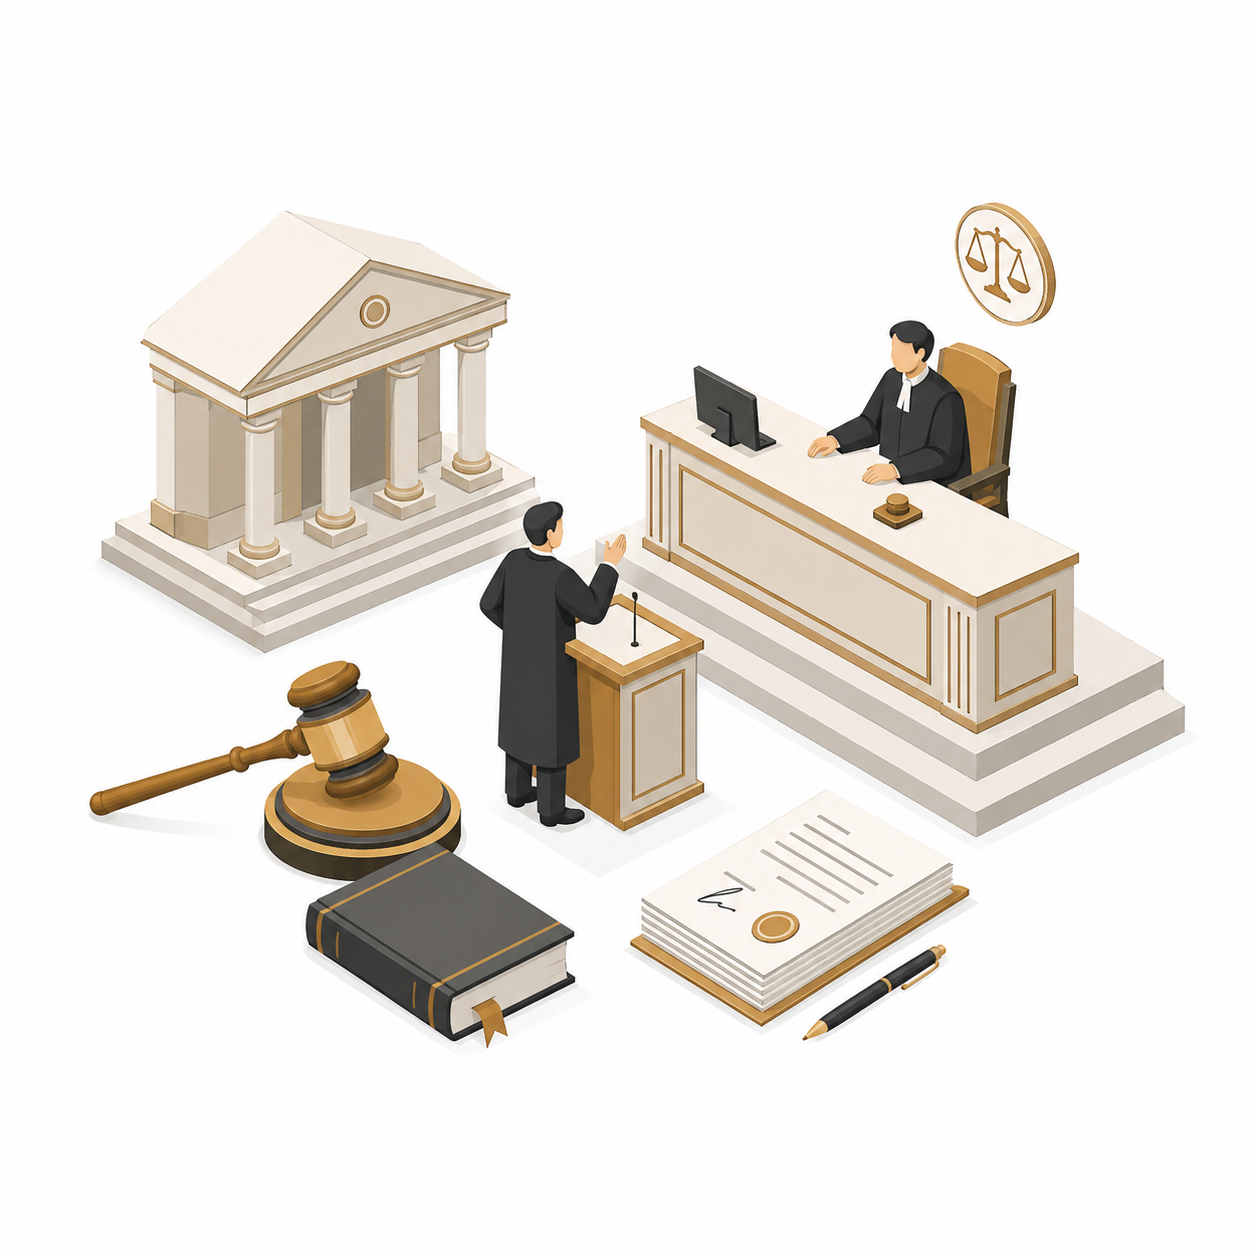
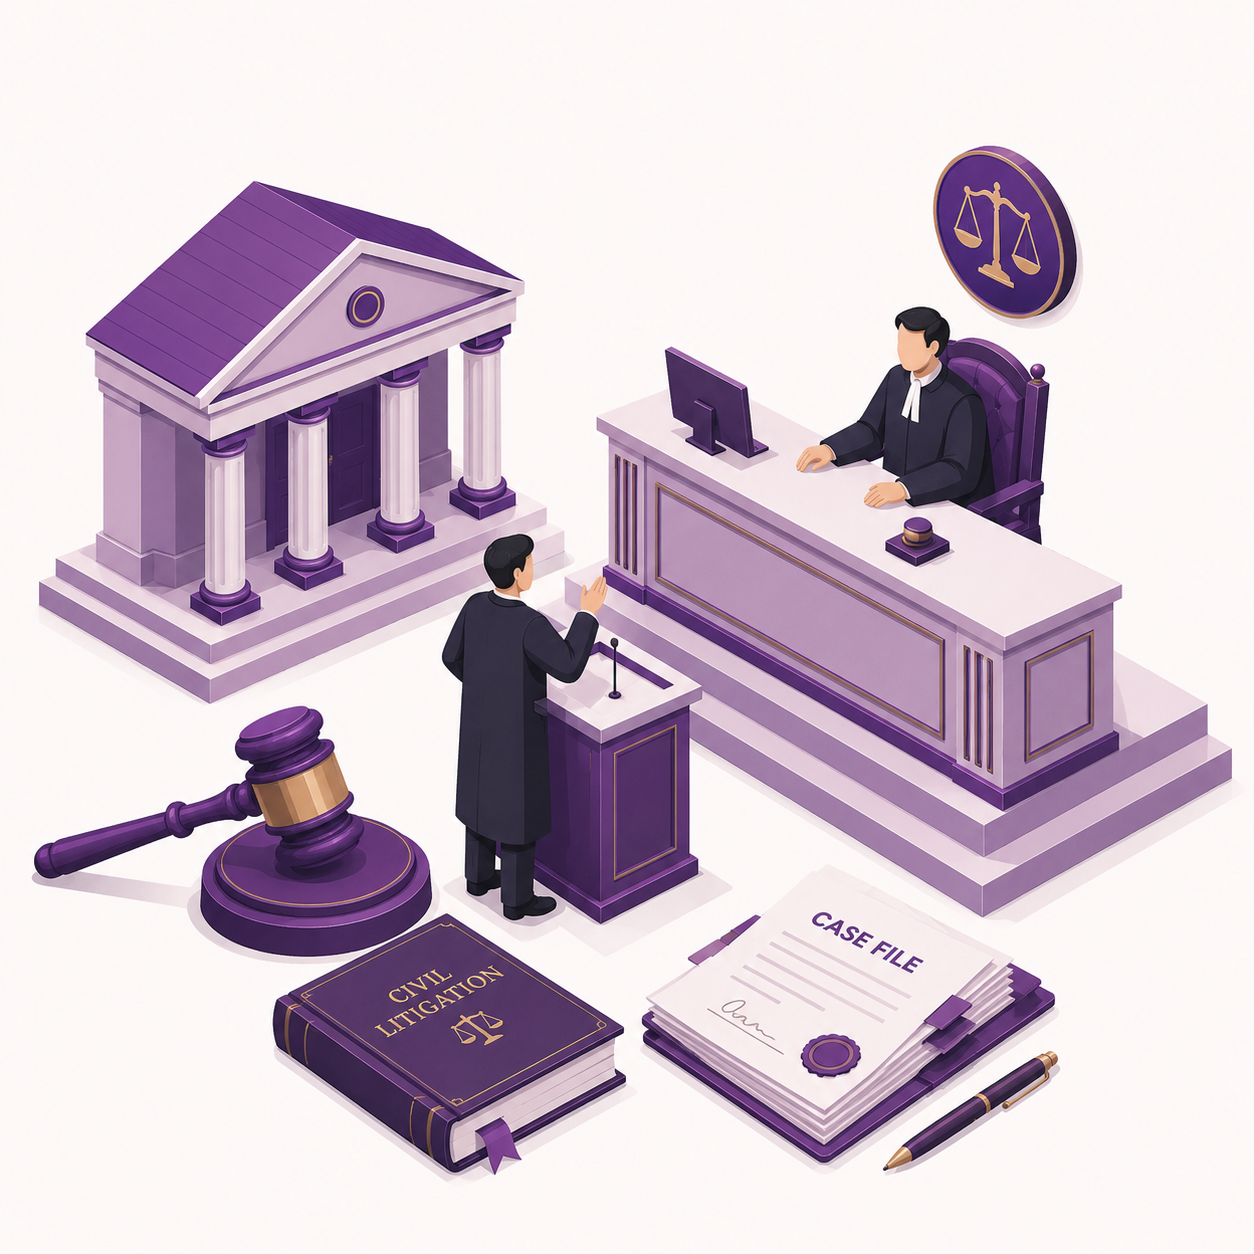
Add new brand-purple illustrations for 6 more Practice Areas (updating Civil Litigation/Arbitration, adding Banking Recovery, Legal Documentation, Corporate Law, Family Law, Criminal Defense)

diff --git a/src/app/practice-areas/page.tsx b/src/app/practice-areas/page.tsx
@@ -17,6 +17,11 @@ const ILLUSTRATIONS: Record<string, string> = {
   "civil-litigation": "/images/civil-litigation.png",
   "property-law": "/images/property-law.png",
   "arbitration-adr": "/images/arbitration-adr.png",
+  "legal-documentation": "/images/legal-documentation.png",
+  "banking-recovery-nclt": "/images/banking-recovery-nclt.png",
+  "corporate-law": "/images/corporate-law.png",
+  "family-law": "/images/family-law.png",
+  "criminal-defense": "/images/criminal-defense.png",
 };
 
 export default function PracticeAreasPage() {